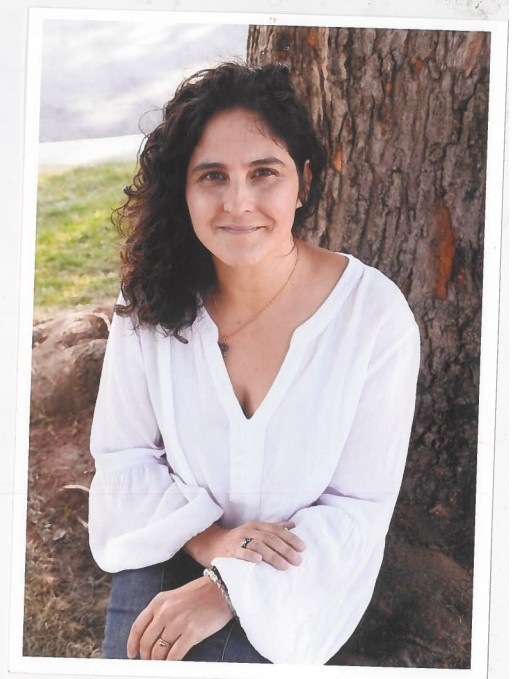
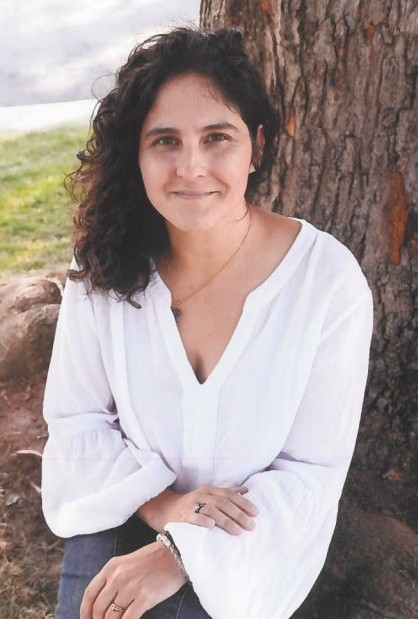
feat: add anny.jpg to home about section + update image

diff --git a/src/app/pages/home/home.html b/src/app/pages/home/home.html
@@ -105,14 +105,14 @@
     </div>
     <div class="about-strip__image" data-reveal="right" data-reveal-delay="200">
       <div class="about-strip__img-frame">
-        <div class="about-strip__img-placeholder">
-          <!-- Image placeholder — remplacer par une vraie photo -->
-          <svg viewBox="0 0 200 200" fill="none" width="80" aria-hidden="true">
-            <circle cx="100" cy="80" r="40" stroke="currentColor" stroke-width="2" opacity=".3"/>
-            <path d="M40 180 C40 140 160 140 160 180" stroke="currentColor" stroke-width="2" opacity=".3"/>
-          </svg>
-          <span>Photo d'Anny</span>
-        </div>
+        <img
+          src="img/anny.jpg"
+          alt="Anny Williams — Coach en développement personnel & Intervenante en langage"
+          width="640"
+          height="800"
+          loading="lazy"
+          class="about-strip__img"
+        />
       </div>
     </div>
   </div>

diff --git a/src/app/pages/home/home.scss b/src/app/pages/home/home.scss
@@ -212,6 +212,17 @@
     box-shadow: var(--shadow-lg);
   }
 
+  &__img {
+    width: 100%;
+    height: 100%;
+    object-fit: cover;
+    object-position: center top;
+    display: block;
+    transition: transform .6s ease;
+
+    &:hover { transform: scale(1.03); }
+  }
+
   &__img-placeholder {
     width: 100%;
     height: 100%;